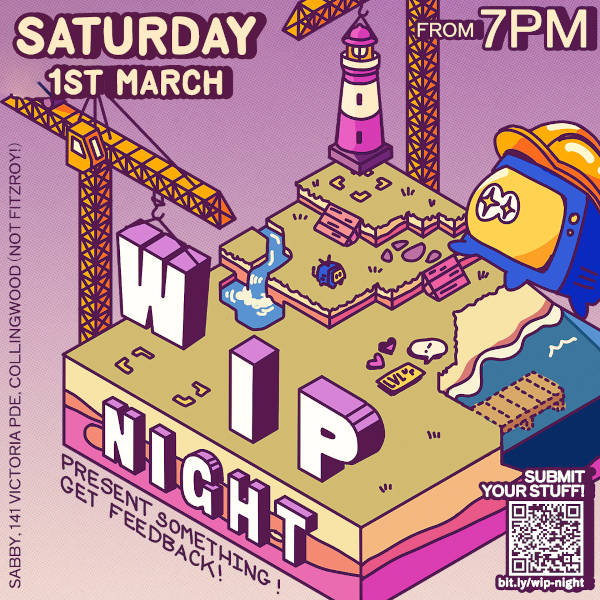
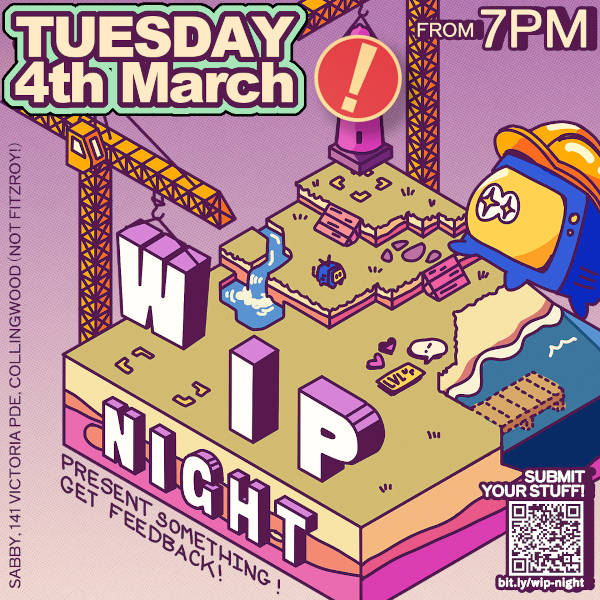
Event wip night march date change to march 4

Changed region(s): [[0.0, 0.0, 0.72, 0.24]]

diff --git a/src/events/2025/03-wip-night.md b/src/events/2025/03-wip-night.md
@@ -1,6 +1,6 @@
 ---
 title: WIP Night Feedback Forum
-date: 2025-03-01
+date: 2025-03-04
 time: 7PM to 10PM
 tags: [wip-night]
 poster: "WIPNight-Mar2025.jpg"
